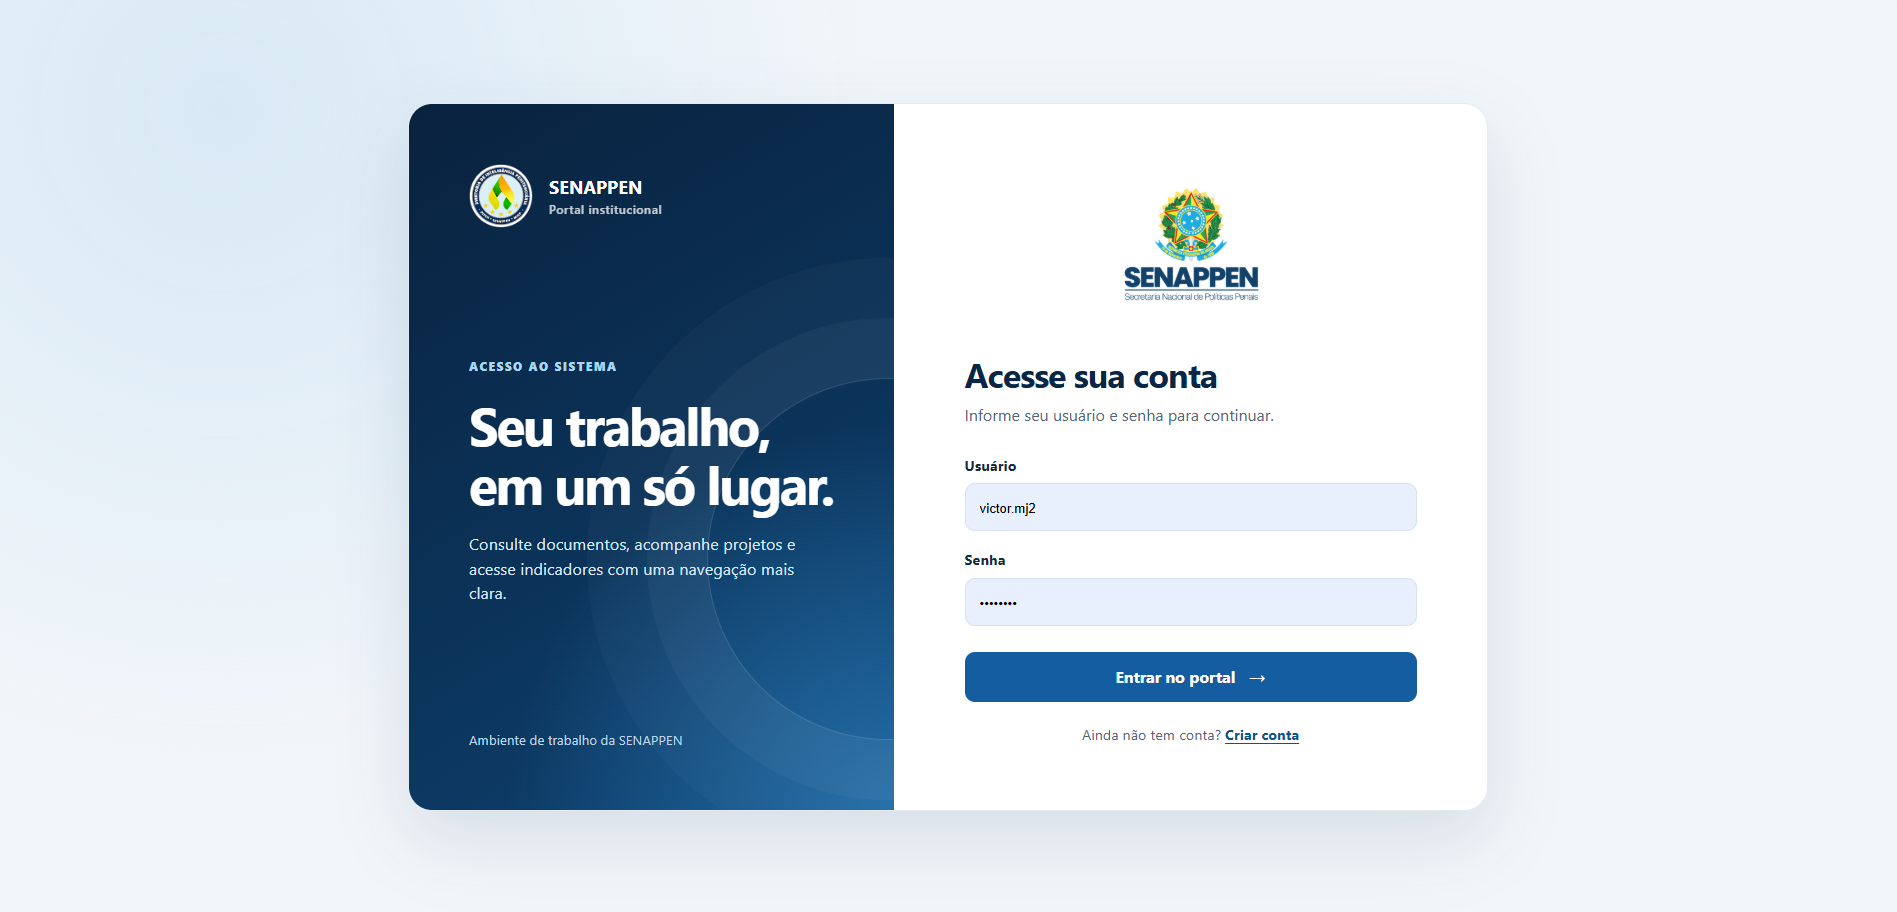
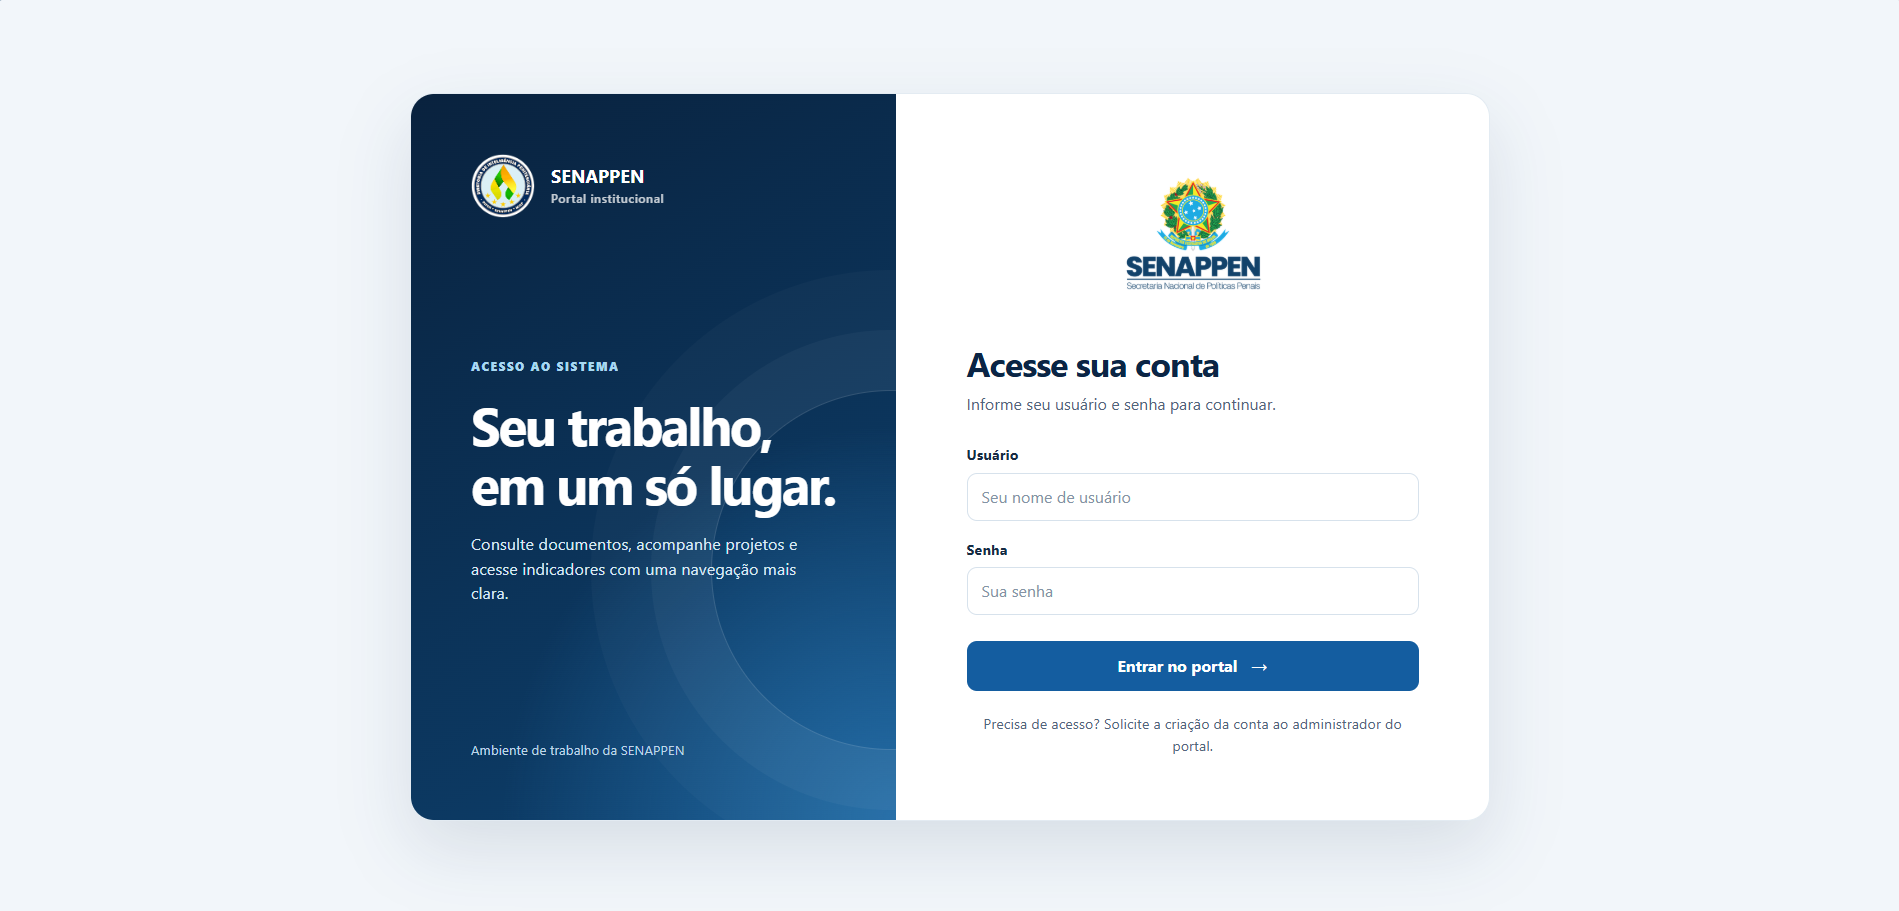
docs: atualiza README e tela de login do portal

diff --git a/README.md b/README.md
@@ -1,64 +1,62 @@
 <div align="center">
 
-# Portal institucional SENAPPEN
+# Portal Institucional SENAPPEN
 
-**Um espaço único para organizar contratos, projetos, identidades e informações de gestão.**
+### Gestão segura e organizada de contratos, projetos e identidades
 
-<img src="docs/images/tela-login.png" alt="Tela de acesso do Portal institucional SENAPPEN" width="900">
+<p>
+  <img src="https://img.shields.io/badge/Acesso-controlado-0B3B6E?style=for-the-badge" alt="Acesso controlado">
+  <img src="https://img.shields.io/badge/Perfis-Visualizador%20%7C%20Editor%20%7C%20Administrador-C99A2E?style=for-the-badge" alt="Perfis de acesso">
+  <img src="https://img.shields.io/badge/Registros-organizados-1A5A96?style=for-the-badge" alt="Registros organizados">
+</p>
+
+<img src="docs/images/tela-login.png" alt="Nova tela de login do Portal Institucional SENAPPEN" width="900">
+
+*Tela de entrada do portal.*
+
+[Recursos](#recursos-do-portal) · [Acesso](#acesso-e-permissões) · [Como iniciar](#como-iniciar) · [Verificações](#verificações)
 
 </div>
 
-<p align="center">
-  <a href="#o-que-o-portal-oferece">Recursos</a> ·
-  <a href="#primeiros-passos">Primeiros passos</a> ·
-  <a href="#acesso-e-administração">Contas</a> ·
-  <a href="#verificações">Verificações</a>
-</p>
-
 ---
 
-## O que o portal oferece
+## Sobre o portal
 
-O Portal SENAPPEN reúne as informações usadas pela equipe em uma área protegida. Depois de entrar, cada pessoa pode consultar os registros autorizados, acompanhar os indicadores e manter seus dados atualizados.
+O Portal Institucional SENAPPEN reúne, em uma área de acesso controlado, as informações usadas no acompanhamento das atividades da instituição. Ele facilita a consulta e a manutenção de contratos, projetos, identidades, documentos e indicadores de gestão.
+
+Após entrar, cada pessoa vê as opções compatíveis com sua permissão. A navegação foi organizada para manter as informações acessíveis, com telas adaptadas para celular e computador, pesquisa, filtros, ordenação e avisos claros durante cada ação.
+
+## Recursos do portal
 
 | Área | O que é possível fazer |
 | --- | --- |
-| **Contratos** | Consultar, filtrar, ordenar, visualizar e baixar contratos e documentos relacionados. Editores e administradores também cadastram e alteram. |
-| **Projetos** | Consultar projetos, responsáveis, prazos, situação e anexos. Editores e administradores também registram e alteram. |
-| **Identidades** | Consultar dados de identificação e fotografias. Editores e administradores também registram identidades. |
-| **Dashboard e análises** | Acompanhar totais, distribuições e registros recentes; comparar informações por período. |
-| **Perfil** | Atualizar departamento, cargo, CPF e senha. |
+| **Início** | Acessar os módulos disponíveis e visualizar o resumo das informações do portal. |
+| **Contratos** | Consultar, pesquisar, ordenar, visualizar e baixar contratos e documentos relacionados. Pessoas com permissão também podem cadastrar, alterar e excluir registros. |
+| **Projetos** | Acompanhar responsáveis, prazos, situação, descrição e anexos de cada projeto. |
+| **Identidades** | Consultar dados de identificação e fotografias, com registro e manutenção conforme a permissão da conta. |
+| **Dashboard e análises** | Acompanhar totais, distribuições, registros recentes e comparações por período. |
+| **Perfil** | Atualizar CPF, departamento, cargo e senha. O CPF precisa ser válido e exclusivo para cada conta. |
+| **Administração** | Criar contas, consultar usuários, ajustar dados e alterar permissões de acesso. Disponível somente para administradores. |
 
-As listas de contratos, projetos e identidades mostram seis registros por página. Elas oferecem ordenação, filtros e mensagens claras quando não há resultados.
+As listas de contratos, projetos e identidades exibem **seis registros por página**, informam a quantidade de resultados e apresentam uma orientação quando não há dados para mostrar.
 
-## Acesso e administração
+## Acesso e permissões
 
-O portal não possui cadastro público. Somente administradores criam e administram contas pela área **Administração**, disponível na página inicial para quem possui esse perfil. A conta criada já fica liberada para entrar no portal.
+Não há cadastro público na tela de entrada. Uma conta é criada por um administrador na área **Administração**, acessada pelo botão no canto superior direito do portal.
 
-| Perfil | Acesso |
+| Perfil | Permissões |
 | --- | --- |
-| **Visualizador** | Consulta registros, documentos, dashboard e análises. |
-| **Editor** | Também cadastra e edita contratos, projetos e identidades. |
-| **Administrador** | Também exclui registros, administra contas e consulta a auditoria. |
+| **Visualizador** | Consulta registros, documentos, indicadores, análises e seu próprio perfil. |
+| **Editor** | Possui as permissões de visualização e também pode cadastrar e editar contratos, projetos e identidades. |
+| **Administrador** | Possui todas as permissões, incluindo exclusões, gestão de usuários, permissões e consulta ao histórico de ações. |
 
-Administradores também podem:
+As principais ações — entradas no portal, envios de arquivos, alterações e exclusões — ficam registradas para acompanhamento administrativo.
 
-- criar contas, listar usuários e alterar seus perfis de acesso;
-- excluir registros e anexos quando necessário;
-- sincronizar e limpar contratos;
-- consultar o histórico de entradas, envios, alterações e exclusões.
+## Como iniciar
 
-O portal registra essas ações para facilitar o acompanhamento da operação.
+### 1. Preparar o projeto
 
-## Primeiros passos
-
-### Antes de iniciar
-
-Tenha o Node.js 20 ou superior instalado e deixe livres as portas `3000` e `5500`.
-
-### 1. Prepare a configuração local
-
-Abra um terminal na raiz do projeto e instale as dependências:
+Instale o Node.js 20 ou superior. Na pasta principal do projeto, execute:
 
 ```powershell
 npm.cmd ci
@@ -68,69 +66,65 @@ Copy-Item .env.example .env
 cd ..
 ```
 
-Abra `BackEnd/.env` e substitua `SECRET_KEY` e `SESSION_SECRET` por valores longos, aleatórios e diferentes. Esse arquivo contém informações privadas e não deve ser enviado ao repositório.
+Abra o arquivo `BackEnd/.env` e preencha `SECRET_KEY` e `SESSION_SECRET` com valores longos, aleatórios e diferentes. Não envie esse arquivo para o repositório.
 
-### 2. Inicie o portal
+### 2. Iniciar o portal
 
 ```powershell
 npm.cmd run dev
 ```
 
-| Endereço | Uso |
+| Endereço | Finalidade |
 | --- | --- |
-| [http://localhost:5500](http://localhost:5500) | Tela de acesso do portal. |
-| [http://localhost:3000/health](http://localhost:3000/health) | Confirma se o serviço está disponível. |
+| [http://localhost:5500](http://localhost:5500) | Tela de login e navegação do portal. |
+| [http://localhost:3000/health](http://localhost:3000/health) | Verificação de disponibilidade do serviço. |
 
-Para encerrar, use `Ctrl+C` no terminal.
+Para encerrar a execução, use `Ctrl+C` no terminal.
 
-### 3. Crie a primeira conta administrativa
+### 3. Criar o primeiro administrador
 
-Depois de iniciar a API uma vez, pare-a e execute:
+Após iniciar o serviço pelo menos uma vez, encerre-o e execute:
 
 ```powershell
 node .\scripts\manage-local-admin.js --create
 ```
 
-Informe os dados solicitados. O comando cria o primeiro administrador e mostra uma senha inicial uma única vez. Guarde-a, entre no portal e altere a senha no perfil.
+Informe os dados solicitados. O comando cria a primeira conta administrativa e apresenta uma senha inicial uma única vez. Entre no portal e altere a senha no perfil.
 
-Para conceder administração a uma conta que já existe, use:
+Para conceder ou remover a permissão administrativa de uma conta existente:
 
 ```powershell
+# Conceder administração
 node .\scripts\manage-local-admin.js
-```
 
-Para remover essa permissão, use:
-
-```powershell
+# Remover administração
 node .\scripts\manage-local-admin.js --revoke
 ```
 
-## Cuidados com os dados
+Depois disso, os próximos usuários devem ser criados pela área **Administração** do próprio portal.
 
-Os dados do portal ficam no banco local em `BackEnd/database.sqlite` e os documentos enviados ficam em `BackEnd/uploads/`.
+## Proteção das informações
 
-Faça uma cópia desses dois locais antes de atualizar o sistema ou mover a instalação. Os contratos antigos encontrados em `BackEnd/data/contracts.json` são trazidos para o banco na primeira atualização, sem alterar o arquivo original.
+- A sessão é encerrada ao sair do portal e fica protegida durante a navegação.
+- Documentos e fotografias só são disponibilizados para pessoas autenticadas e autorizadas.
+- Arquivos enviados passam por verificações antes de serem aceitos.
+- O sistema impede CPF inválido ou já utilizado por outra conta.
+- Pessoas sem permissão não conseguem criar, alterar ou excluir registros.
+- O acesso possui proteção contra tentativas repetidas de senha.
 
-## Segurança no uso diário
+Os dados ficam em `BackEnd/database.sqlite` e os arquivos enviados em `BackEnd/uploads/`. Faça uma cópia desses dois locais antes de atualizar ou mover a instalação.
 
-- A sessão fica protegida no navegador e termina ao sair do portal.
-- Documentos e fotografias só são entregues para pessoas autenticadas.
-- O sistema verifica formato, tipo e conteúdo dos arquivos antes de aceitá-los.
-- Somente administradores podem criar contas e alterar permissões.
-- O servidor bloqueia inclusões e alterações feitas por perfis Visualizador.
-- O acesso tem limite de tentativas para reduzir tentativas de senha indevidas.
-
-Ao publicar o portal em uma rede acessível, utilize HTTPS, configure o endereço público correto e mantenha cópias periódicas do banco e dos anexos.
+Os contratos antigos existentes em `BackEnd/data/contracts.json` são transferidos para o banco na primeira atualização, sem modificar o arquivo original.
 
 ## Verificações
 
-O projeto possui verificações para garantir que as telas, os acessos, os anexos e as permissões continuem funcionando após uma alteração.
+O projeto possui verificações para as regras de acesso, registros, arquivos, paginação e jornadas principais da interface.
 
 ```powershell
-# Verifica o sistema completo
+# Executa todas as verificações
 npm.cmd test
 
-# Executa somente as telas principais
+# Executa somente as verificações das telas
 npm.cmd test:e2e
 
 # Verifica dependências com problemas altos ou críticos
@@ -143,16 +137,16 @@ Na primeira execução das verificações de tela, instale o navegador necessár
 npx.cmd playwright install chromium
 ```
 
-Cada envio de alteração e solicitação de revisão no GitHub executa essas verificações automaticamente em [ci.yml](.github/workflows/ci.yml).
+As verificações também são executadas automaticamente a cada envio de alterações e solicitação de revisão no GitHub, conforme [ci.yml](.github/workflows/ci.yml).
 
 ## Organização do projeto
 
 ```text
-FrontEnd/       telas e recursos visuais do portal
+FrontEnd/       telas, estilos e recursos visuais do portal
 BackEnd/        regras do sistema, dados, arquivos enviados e histórico
 tests/e2e/      verificações das principais jornadas na interface
 scripts/        comandos de inicialização e manutenção local
 docs/images/    imagens usadas nesta documentação
 ```
 
-Para quem precisa consultar a integração entre a interface e o serviço, a referência completa está em [BackEnd/openapi.yaml](BackEnd/openapi.yaml).
+Para consultar a comunicação entre as telas e o serviço, veja [BackEnd/openapi.yaml](BackEnd/openapi.yaml).
